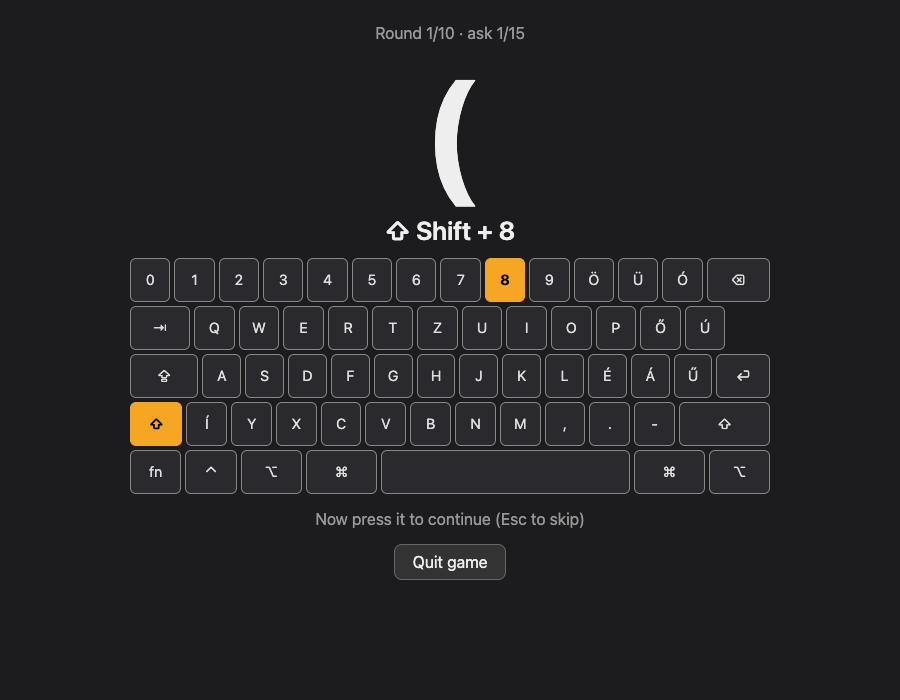
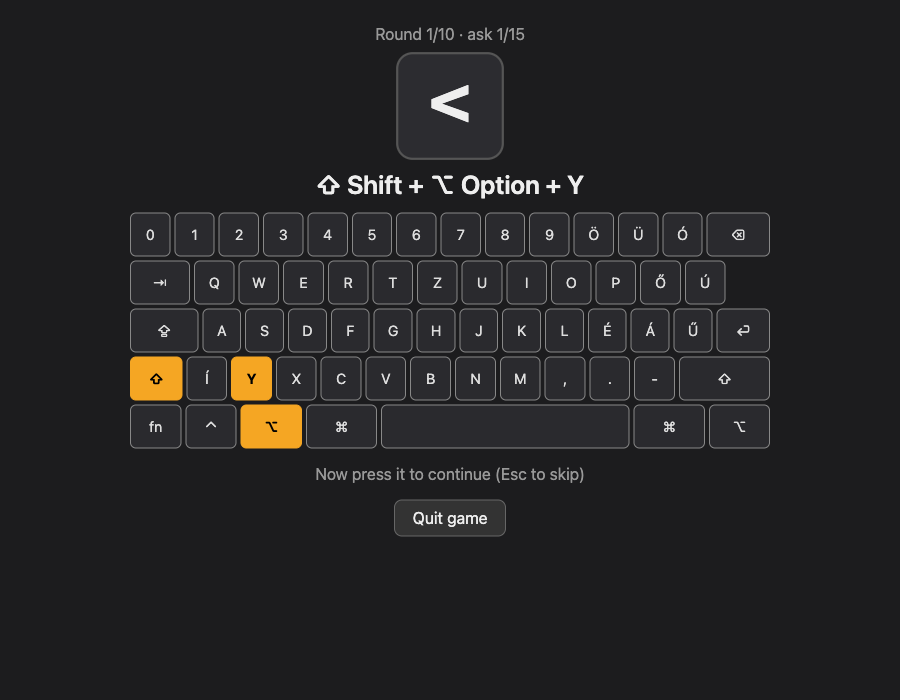
Redesign statistics, games table, keycap display and finished screen (#4) (#4)
- Statistics and Games share one table style with keycap chips, miss bars and mastered pills
- Question and hint screens draw the symbol on a 110px virtual keycap so position distinguishes ' , - _ .
- Game finished screen shows a per-round table with green/red keycaps and an overall pill
- Move shared table, key and pill styles to App.vue
- Add statistics and finished screenshots, retake practice and hint, update README

Changed region(s): [[0.1244, 0.03, 0.8711, 0.84]]

diff --git a/src/components/Practice.vue b/src/components/Practice.vue
@@ -1,5 +1,5 @@
 <script setup lang="ts">
-import { onBeforeUnmount, onMounted, reactive, ref } from "vue";
+import { computed, onBeforeUnmount, onMounted, reactive, ref } from "vue";
 import { GameSession } from "../engine/session";
 import { pickGameChars, recordResults, type GameRecord, type StatsMap } from "../engine/rules";
 import type { Settings } from "../engine/settings";
@@ -16,6 +16,7 @@ const hintChar = ref("");
 const label = ref("");
 const barKey = ref(0);
 const wrongLayout = ref(false);
+const pill = computed(() => (s.mastered.length === chars.length ? "ok" : s.mastered.length ? "part" : "none"));
 let timer: number | undefined;
 
 function startAsk() {
@@ -85,7 +86,10 @@ onBeforeUnmount(() => {
 
     <template v-if="phase !== 'over'">
       <div class="meta">{{ phase === "hint" ? label : `Round ${s.round}/${settings.maxRounds} · ask ${s.asks.length + 1}/${s.queue.length}` }}</div>
-      <div class="char">{{ phase === "hint" ? hintChar : s.current }}</div>
+      <svg class="char" viewBox="0 0 100 100" role="img" :aria-label="phase === 'hint' ? hintChar : s.current">
+        <rect x="2" y="2" width="96" height="96" rx="14" />
+        <text x="50" y="68" text-anchor="middle">{{ phase === "hint" ? hintChar : s.current }}</text>
+      </svg>
       <div v-if="phase === 'ask'" class="bar"><div :key="barKey" class="fill" :style="{ animationDuration: settings.timeoutSec + 's' }" /></div>
       <template v-else>
         <KeyboardHint :char="hintChar" />
@@ -93,15 +97,20 @@ onBeforeUnmount(() => {
       </template>
     </template>
 
-    <template v-else>
-      <h2>Game finished</h2>
-      <ul>
-        <li v-for="(r, i) in s.rounds" :key="i">
-          Round {{ i + 1 }}: asked {{ r.asked.join(" ") }} → mastered {{ r.mastered.join(" ") || "none" }}
-        </li>
-      </ul>
-      <p v-if="s.active.length">Still weak: {{ s.active.join(" ") }}</p>
-    </template>
+    <div v-else class="done">
+      <h2>Game finished <span class="pill" :class="pill">{{ s.mastered.length }}/{{ chars.length }} mastered</span></h2>
+      <table class="tbl">
+        <thead><tr><th>Round</th><th>Asked</th><th class="n">Mastered</th></tr></thead>
+        <tbody>
+          <tr v-for="(r, i) in s.rounds" :key="i">
+            <td>{{ i + 1 }}</td>
+            <td><span v-for="c in r.asked" :key="c" class="key" :class="r.mastered.includes(c) ? 'ok' : 'no'">{{ c }}</span></td>
+            <td class="n">{{ r.mastered.length }}/{{ r.asked.length }}</td>
+          </tr>
+        </tbody>
+      </table>
+      <p v-if="s.active.length" class="muted">Still weak: <span v-for="c in s.active" :key="c" class="key no">{{ c }}</span></p>
+    </div>
 
     <button @click="phase === 'over' ? emit('quit') : quit()">{{ phase === "over" ? "Back" : "Quit game" }}</button>
   </section>
@@ -109,11 +118,15 @@ onBeforeUnmount(() => {
 
 <style scoped>
 .practice { text-align: center; }
-.char { font-size: 9rem; line-height: 1.2; font-weight: 700; }
+.char { display: block; width: 110px; margin: 0.5rem auto; }
+.char rect { fill: #2c2c30; stroke: #555; stroke-width: 2; }
+.char text { fill: #eee; font: 700 64px ui-monospace, "SF Mono", Menlo, monospace; }
 .meta, .muted { color: #999; }
 .warn { background: #5a3b00; padding: 0.6rem; border-radius: 6px; }
 .bar { height: 8px; background: #333; border-radius: 4px; overflow: hidden; margin: 1rem auto 2rem; max-width: 400px; }
 .fill { height: 100%; background: #f5a623; transform-origin: left; animation: shrink linear forwards; }
 @keyframes shrink { from { transform: scaleX(1); } to { transform: scaleX(0); } }
-ul { list-style: none; padding: 0; }
+.done { max-width: 34rem; margin: 0 auto; text-align: left; }
+.done h2 { text-align: center; }
+.done .pill { margin-left: 0.5rem; vertical-align: middle; }
 </style>

diff --git a/src/components/Stats.vue b/src/components/Stats.vue
@@ -11,34 +11,48 @@ const rows = computed(() =>
     .sort((a, b) => b.miss - a.miss),
 );
 const games = computed(() => [...props.games].reverse());
+const fmt = (d: string) => new Date(d).toLocaleString([], { day: "2-digit", month: "2-digit", hour: "2-digit", minute: "2-digit" });
+const mastered = (g: GameRecord) => g.rounds.reduce((n, r) => n + r.mastered.length, 0);
+const pillClass = (g: GameRecord) => (mastered(g) === g.chars.length ? "ok" : mastered(g) ? "part" : "none");
 </script>
 
 <template>
   <section class="stats">
     <h2>Statistics</h2>
     <p v-if="!rows.length">No games played yet.</p>
-    <table v-else>
-      <thead><tr><th>Char</th><th>Asks</th><th>Hits</th><th>Recent miss %</th><th>Times mastered</th></tr></thead>
+    <table v-else class="tbl">
+      <thead><tr><th>Char</th><th class="n">Asks</th><th class="n">Hits</th><th>Miss</th><th class="n">Mastered</th></tr></thead>
       <tbody>
         <tr v-for="r in rows" :key="r.c">
-          <td class="c">{{ r.c }}</td><td>{{ r.asks }}</td><td>{{ r.hits }}</td><td>{{ r.miss }}</td><td>{{ r.masteredCount }}</td>
+          <td><span class="key">{{ r.c }}</span></td>
+          <td class="n">{{ r.asks }}</td>
+          <td class="n">{{ r.hits }}</td>
+          <td><span class="bar"><i :style="{ width: r.miss + '%' }" /></span>{{ r.miss }}%</td>
+          <td class="n">{{ r.masteredCount }}</td>
         </tr>
       </tbody>
     </table>
-    <h3>Games</h3>
-    <ul>
-      <li v-for="g in games" :key="g.date">
-        {{ new Date(g.date).toLocaleString() }} · {{ g.chars.join(" ") }} · {{ g.rounds.length }} rounds ·
-        mastered {{ g.rounds.reduce((n, r) => n + r.mastered.length, 0) }}/{{ g.chars.length }}
-      </li>
-    </ul>
+    <template v-if="games.length">
+      <h3>Games</h3>
+      <table class="tbl">
+        <thead><tr><th>Date</th><th>Chars</th><th class="n">Rounds</th><th class="n">Mastered</th></tr></thead>
+        <tbody>
+          <tr v-for="g in games" :key="g.date">
+            <td class="date">{{ fmt(g.date) }}</td>
+            <td><span v-for="c in g.chars" :key="c" class="key">{{ c }}</span></td>
+            <td class="n">{{ g.rounds.length }}</td>
+            <td class="n"><span class="pill" :class="pillClass(g)">{{ mastered(g) }}/{{ g.chars.length }}</span></td>
+          </tr>
+        </tbody>
+      </table>
+    </template>
     <button @click="$emit('back')">Back</button>
   </section>
 </template>
 
 <style scoped>
-table { border-collapse: collapse; margin: 0 auto 1rem; }
-th, td { padding: 0.3rem 0.9rem; text-align: center; border-bottom: 1px solid #444; }
-.c { font-size: 1.4rem; font-weight: 700; }
-ul { list-style: none; padding: 0; }
+.stats { max-width: 34rem; margin: 0 auto; }
+.date { white-space: nowrap; }
+.bar { display: inline-block; width: 60px; height: 6px; border-radius: 3px; background: #3a3a3e; vertical-align: middle; margin-right: 0.4rem; overflow: hidden; }
+.bar i { display: block; height: 100%; background: #f5a623; }
 </style>

diff --git a/src/App.vue b/src/App.vue
@@ -54,5 +54,16 @@ main { padding: 1.5rem; min-height: 100vh; box-sizing: border-box; }
 button { font: inherit; padding: 0.5rem 1.1rem; border-radius: 8px; border: 1px solid #666; background: #333; color: #eee; cursor: pointer; }
 button.primary { background: #f5a623; color: #000; border-color: #f5a623; font-weight: 700; }
 input, textarea { font: inherit; padding: 0.4rem; border-radius: 6px; border: 1px solid #666; background: #2a2a2e; color: #eee; }
+.tbl { border-collapse: collapse; width: 100%; margin-bottom: 1rem; font-size: 0.9rem; }
+.tbl th { font-size: 0.65rem; text-transform: uppercase; letter-spacing: 0.06em; color: #999; font-weight: 600; text-align: left; padding: 0.3rem 0.5rem; }
+.tbl td { padding: 0.4rem 0.5rem; border-top: 1px solid #333; }
+.tbl .n { text-align: right; font-variant-numeric: tabular-nums; }
+.key { display: inline-block; min-width: 1.5rem; text-align: center; padding: 0.1rem 0.35rem; margin: 1px; border-radius: 6px; background: #333; border: 1px solid #555; border-bottom-width: 3px; font: 700 1rem ui-monospace, monospace; }
+.key.ok { border-color: #3ba55d; color: #7ee2a0; }
+.key.no { border-color: #c0504d; color: #ff8f8c; }
+.pill { padding: 0.1rem 0.5rem; border-radius: 99px; font-size: 0.75rem; font-weight: 700; }
+.pill.ok { background: #1f3a29; color: #7ee2a0; }
+.pill.part { background: #4a3a14; color: #f5c453; }
+.pill.none { background: #4a2121; color: #ff8f8c; }
 .menu { display: flex; flex-direction: column; align-items: center; gap: 0.8rem; margin-top: 12vh; }
 </style>

diff --git a/README.md b/README.md
@@ -20,6 +20,8 @@ Only needed once. Releases are built by GitHub Actions from the tagged source, s
 -   **Weakness-driven games**: each game picks the 5 characters you miss most (miss rate over your last 30 asks); with no history it starts with `< > * ( )`.
 -   **Rounds**: every active character is asked 3 times per round, shuffled, never the same one twice in a row. A character with all hits in a round is mastered and dropped; the game ends when none remain or after 10 rounds.
 -   **Instant hints**: a wrong key or a 3 s timeout is a miss and shows the key combo on an on-screen keyboard. The hint stays until you press the right key (`Esc` skips it).
+-   **Keycap display**: each symbol is drawn on a virtual key at its true height, so `'` `,` `-` `_` `.` are easy to tell apart.
+-   **Round summary**: when a game ends, a table shows each round's asked characters (green = mastered, red = missed) and the overall result.
 -   **Statistics**: per-character asks, hits, recent miss rate and times mastered, plus a game history.
 -   **Configurable**: character pool, characters per game, timeout, hits per character and max rounds (all clamped to sane limits).
 -   **Wrong input source detection**: warns when the Y/Z swap shows the Hungarian layout is not active.
@@ -32,6 +34,12 @@ Only needed once. Releases are built by GitHub Actions from the tagged source, s
 
 ### Asking a symbol
 ![Practice](screenshots/practice.png)
+
+### Game finished
+![Game finished](screenshots/finished.png)
+
+### Statistics
+![Statistics](screenshots/statistics.png)
 
 ### Settings
 ![Settings](screenshots/settings.png)
